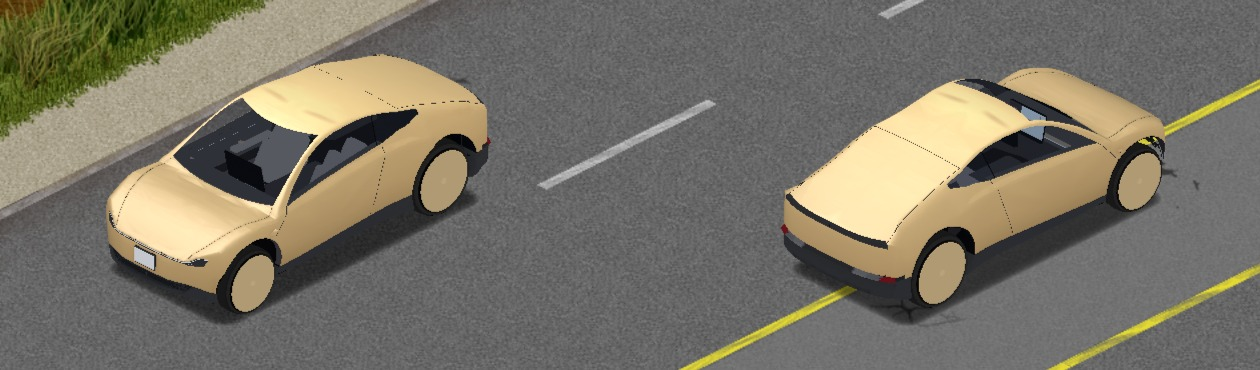
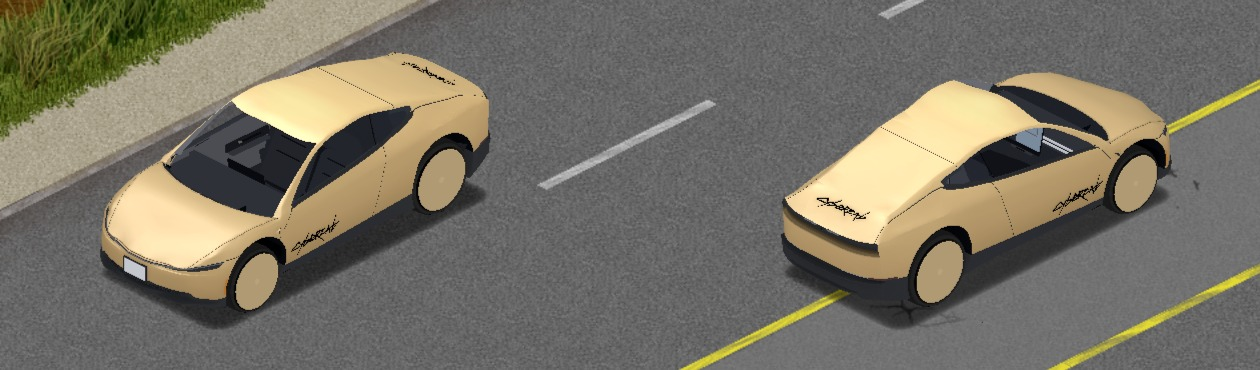
docs: Cybercab 指南截圖用字樣版重拍，新增第 40 張「坐進兩個人」
- 37、38、39：用 a411c16（加了 CYBERCAB 字樣）的 guide-cc-sp 原圖重產，
  拍法與裁切不變（guide-cc-sp/make_jpg.py）。
- 40（新）：多人、兩個帳號坐同一台、兩扇門全開。左格車頭朝 SW 從側面看，
  右格車頭朝 SE 從正面看，版面同 38。來源是一次性情境 seated2-rv-mp
  （拍法寫在 STEAM_GUIDE.md 第 5 行的註解）。多人模式一定會在車頂上方
  畫座位號與帳號名，用旁邊的路面蓋掉；車和人物沒有修。
- 指南（中、英）：Cybercab 一節把「車內」從上掀門小節搬到新的
  「Cybercab 的兩個座位」小節，放第 40 張，並補一條兩個人一起坐的說明。

diff --git a/STEAM_GUIDE_EN.md b/STEAM_GUIDE_EN.md
@@ -2,7 +2,7 @@
 <!-- Steam guide source (English). The full description lives in this guide; the Workshop page only has a summary. Format and sync: pz-family-docs/release.md "完整說明：Steam 指南" -->
 <!-- 標題：📖 Minidoracat Tesla Collection Mod Guide: Cars, Charging, Keys and the App -->
 <!-- 摘要：A picture guide to Minidoracat Tesla Collection: the Model Y and Model 3 Performance, the Model Y L (six seats), the Model S and Model X Plaid (falcon wing doors and six seats), the first-generation Roadster 2.5 Sport (soft top), the Cybertruck Cyberbeast (cargo bed, Powershare home backup and the bed outlets), the Cybercab (a two-seat robotaxi: doors that swing up, no steering wheel, the charge port at the back), the battery and towing, the Wall Connector, the Mobile Connector and the V4 Superchargers at gas stations, the Tesla-style dashboard, key cards and phone keys, the Tesla app and Summon, Sentry and Camp Mode, Bioweapon Defense Mode and Chill, drive unit parts, and how it works with Vehicle Manager, the MiniMap, AutoDrive and Project Viewpoint, plus the sandbox options. -->
-<!-- Screenshots: docs/screenshots/steam/en/, shot by guide-shots-sp in the family repo's e2e/MinidoracatTeslaFor42 (Bioweapon Defense and Chill only: --define part=feat, with hover.py for the radial's hover text; Cybertruck shots: guide-ct-sp; Model S / X: guide-sx-sp; Model Y L shots (33, 34): guide-yl-sp; Roadster shots (35, 36): guide-rd-sp (one CH run, same pictures as zh; 35 is four cars facing S at zoom 1.0 cropped (210,622,1710,967), 36 is one Radiant Red car with the soft top closed and stowed at zoom 0.5, each cropped (284,320,854,880), side by side with a 16 px gap); Cybercab shots (37, 38, 39): guide-cc-sp (one CH run, same pictures as zh; 37 is gcc-line-075, the left car facing S and the right one facing N at zoom 0.75 cropped (330,340,1590,710); 38 is one car facing S at zoom 0.5, gcc-doors-open-050 (both doors open by the app's Doors button) beside gcc-doors-trunk-050 (doors shut, trunk lid open), each cropped (220,260,935,820), side by side with a 16 px gap; 39 is gcc-charge-050, the car facing W with its tail plugged into a V4 Supercharger at zoom 0.5 cropped (150,320,1110,800)); Summon shots: phone-summon-sp; FSD: fsd-shot-sp (01c is 01b cropped (350,370,1090,977), not used in the guide, referenced by the Workshop description: re-crop it when 01b is reshot and update the image URL in the description, see release.md); With other mods: guide-mods-sp; Project Viewpoint (31): vd-first-ModelS from this repo's one-off temp/oneoff/vp-detail-sp, cropped (80,40,1660,1080), same picture as zh, needs ZombieBuddy; V4 Supercharger (32): supercharger-sp's sc-EN-card / sc-CH-card, cropped (480,160,1480,990)) -->
+<!-- Screenshots: docs/screenshots/steam/en/, shot by guide-shots-sp in the family repo's e2e/MinidoracatTeslaFor42 (Bioweapon Defense and Chill only: --define part=feat, with hover.py for the radial's hover text; Cybertruck shots: guide-ct-sp; Model S / X: guide-sx-sp; Model Y L shots (33, 34): guide-yl-sp; Roadster shots (35, 36): guide-rd-sp (one CH run, same pictures as zh; 35 is four cars facing S at zoom 1.0 cropped (210,622,1710,967), 36 is one Radiant Red car with the soft top closed and stowed at zoom 0.5, each cropped (284,320,854,880), side by side with a 16 px gap); Cybercab shots (37, 38, 39): guide-cc-sp (one CH run, same pictures as zh; 37 is gcc-line-075, the left car facing S and the right one facing N at zoom 0.75 cropped (330,340,1590,710); 38 is one car facing S at zoom 0.5, gcc-doors-open-050 (both doors open by the app's Doors button) beside gcc-doors-trunk-050 (doors shut, trunk lid open), each cropped (220,260,935,820), side by side with a 16 px gap; 39 is gcc-charge-050, the car facing W with its tail plugged into a V4 Supercharger at zoom 0.5 cropped (150,320,1110,800)); Cybercab with two riders (40): this repo's one-off temp/plan-next8-1114/e2e/oneoff/seated2-rv-mp (multiplayer, two accounts in one car, both doors open, zoomed all the way in), seated2-open-SW cropped (598,280,1313,840) beside seated2-open-SE cropped (651,350,1366,910) with a 16 px gap, same picture as zh; multiplayer always draws the seat number and account name above the roof, so that label is covered with the road next to it, the car and the riders are not retouched; Summon shots: phone-summon-sp; FSD: fsd-shot-sp (01c is 01b cropped (350,370,1090,977), not used in the guide, referenced by the Workshop description: re-crop it when 01b is reshot and update the image URL in the description, see release.md); With other mods: guide-mods-sp; Project Viewpoint (31): vd-first-ModelS from this repo's one-off temp/oneoff/vp-detail-sp, cropped (80,40,1660,1080), same picture as zh, needs ZombieBuddy; V4 Supercharger (32): supercharger-sp's sc-EN-card / sc-CH-card, cropped (480,160,1480,990)) -->
 === 🚀 Quick start
 [b]中文版：[/b] [url=https://steamcommunity.com/sharedfiles/filedetails/?id=3829449828]Minidoracat Tesla Collection 完整說明[/url]
 
@@ -161,7 +161,7 @@ https://steamcommunity.com/sharedfiles/filedetails/?id=3829501237
 [tr][th]Car[/th][th]Factory paints[/th][th]Front Trunk[/th][th]Rear Trunk[/th][/tr]
 [tr][td]Cybercab[/td][td]Gold[/td][td]None[/td][td]45[/td][/tr]
 [/table]
-[h3]Up-swinging doors, no front trunk, and the cabin[/h3]
+[h3]Up-swinging doors and no front trunk[/h3]
 {{img:38-cybercab-doors-en.jpg}}
 [list]
 [*] [b]Doors that swing up[/b]: the two doors swing up and forward; fully open, the car still fits in a one-storey garage. Your character waits for the door to swing up before climbing in.
@@ -170,7 +170,12 @@ https://steamcommunity.com/sharedfiles/filedetails/?id=3829501237
 [*] [b]Dashboard[/b]: it has its own top view; click the car to open or close the two doors and the trunk lid. Clicking the hood does nothing.
 [*] [b]No front trunk[/b]: the real car's hood does not open (rider guide); the app's home page has three quick icons, and its Controls page has no frunk.
 [*] [b]Repairs[/b]: press E at the front and the hood and the mechanics window open as on any car, so the drive unit is repaired as usual; the mechanics window calls the parts Hood and Trunk Lid. Taking the hood off does not leave a hole (the front is one piece with the body).
+[/list]
+[h3]Cybercab two seats[/h3]
+{{img:40-cybercab-seats-en.jpg}}
+[list]
 [*] [b]Cabin[/b]: two seats and a wide centre screen; riders rest their hands on their laps.
+[*] [b]Two riders[/b]: in multiplayer one player sits on each side and the one on the left drives; from outside you can see the riders through the glass or the open doors.
 [/list]
 === 🧰 Cybertruck (Cyberbeast)
 {{img:23-cybertruck-en.jpg}}

diff --git a/STEAM_GUIDE.md b/STEAM_GUIDE.md
@@ -2,7 +2,7 @@
 <!-- Steam 指南稿源（繁中）：MOD 的完整說明以本指南為準，簡介只放摘要。格式、版面與同步方式見 pz-family-docs/release.md「完整說明：Steam 指南」 -->
 <!-- 標題：📖 Minidoracat Tesla Collection MOD 完整說明：車、充電、鑰匙與 App -->
 <!-- 摘要：Minidoracat Tesla Collection 的圖文說明：Model Y 與 Model 3 Performance、Model Y L（六座）、Model S 與 Model X Plaid（鷹翼門與 6 座）、初代 Roadster 2.5 Sport（敞篷軟頂篷）、Cybertruck Cyberbeast（車斗、Powershare 住宅備援與車斗插座）、Cybercab（兩座無人計程車：上掀門、沒有方向盤、充電口在車尾）、電池與拖車耗電、壁掛式充電座、行動充電器與加油站的 V4 超級充電座、特斯拉風格儀表、卡片鑰匙與手機鑰匙、手機 Tesla App 與召喚、哨兵與露營模式、生物武器防禦模式與舒適模式、驅動單元零件，以及和 Vehicle Manager、小地圖、AutoDrive、Project Viewpoint 一起用的規則與沙盒選項。 -->
-<!-- 截圖：docs/screenshots/steam/zh/，拍法見家族庫 e2e/MinidoracatTeslaFor42 的 guide-shots-sp（生物武器防禦與舒適模式只跑那段用 --define part=feat，圓盤停留文字要另開 hover.py；Cybertruck 圖用 guide-ct-sp、Model S／X 圖用 guide-sx-sp、Model Y L 的圖（33、34）用 guide-yl-sp、Roadster 的圖（35、36）用 guide-rd-sp（只跑 CH 一輪、中英同一張；35 是四台車頭朝 S、縮放 1.0 裁 (210,622,1710,967)，36 是同一台 Radiant Red 軟頂篷蓋著與收起、縮放 0.5 各裁 (284,320,854,880) 左右拼、間隔 16）、Cybercab 的圖（37、38、39）用 guide-cc-sp（只跑 CH 一輪、中英同一張；37 是 gcc-line-075，左台朝 S、右台朝 N、縮放 0.75 裁 (330,340,1590,710)；38 是同一台朝 S、縮放 0.5，左 gcc-doors-open-050（App 車門鍵兩門全開）、右 gcc-doors-trunk-050（門關、行李廂蓋全開），各裁 (220,260,935,820) 左右拼、間隔 16；39 是 gcc-charge-050，車頭朝 W、車尾對 V4 超級充電座插著線、縮放 0.5 裁 (150,320,1110,800)）、召喚圖用 phone-summon-sp、FSD 圖用 fsd-shot-sp（01c 是 01b 裁 (350,370,1090,977)，指南不用，給 Workshop 簡介引用：重拍 01b 要一起重裁，並照 release.md 換簡介裡的圖片網址）、「和其他 MOD 一起用」用 guide-mods-sp；Project Viewpoint 那張（31）是本 repo 一次性情境 temp/oneoff/vp-detail-sp 的 vd-first-ModelS 裁 (80,40,1660,1080)，中英同一張，要裝 ZombieBuddy 才拍得到；V4 超級充電座那張（32）是 supercharger-sp 的 sc-CH-card／sc-EN-card 裁 (480,160,1480,990)） -->
+<!-- 截圖：docs/screenshots/steam/zh/，拍法見家族庫 e2e/MinidoracatTeslaFor42 的 guide-shots-sp（生物武器防禦與舒適模式只跑那段用 --define part=feat，圓盤停留文字要另開 hover.py；Cybertruck 圖用 guide-ct-sp、Model S／X 圖用 guide-sx-sp、Model Y L 的圖（33、34）用 guide-yl-sp、Roadster 的圖（35、36）用 guide-rd-sp（只跑 CH 一輪、中英同一張；35 是四台車頭朝 S、縮放 1.0 裁 (210,622,1710,967)，36 是同一台 Radiant Red 軟頂篷蓋著與收起、縮放 0.5 各裁 (284,320,854,880) 左右拼、間隔 16）、Cybercab 的圖（37、38、39）用 guide-cc-sp（只跑 CH 一輪、中英同一張；37 是 gcc-line-075，左台朝 S、右台朝 N、縮放 0.75 裁 (330,340,1590,710)；38 是同一台朝 S、縮放 0.5，左 gcc-doors-open-050（App 車門鍵兩門全開）、右 gcc-doors-trunk-050（門關、行李廂蓋全開），各裁 (220,260,935,820) 左右拼、間隔 16；39 是 gcc-charge-050，車頭朝 W、車尾對 V4 超級充電座插著線、縮放 0.5 裁 (150,320,1110,800)）、Cybercab 坐進兩個人那張（40）是本 repo 一次性情境 temp/plan-next8-1114/e2e/oneoff/seated2-rv-mp（多人、兩個帳號坐同一台、兩扇門全開、縮放拉到最近）的 seated2-open-SW 裁 (598,280,1313,840) 與 seated2-open-SE 裁 (651,350,1366,910)，左右拼、間隔 16，中英同一張；多人模式一定會在車頂上方畫座位號與帳號名，用旁邊的路面蓋掉，車和人物不修、召喚圖用 phone-summon-sp、FSD 圖用 fsd-shot-sp（01c 是 01b 裁 (350,370,1090,977)，指南不用，給 Workshop 簡介引用：重拍 01b 要一起重裁，並照 release.md 換簡介裡的圖片網址）、「和其他 MOD 一起用」用 guide-mods-sp；Project Viewpoint 那張（31）是本 repo 一次性情境 temp/oneoff/vp-detail-sp 的 vd-first-ModelS 裁 (80,40,1660,1080)，中英同一張，要裝 ZombieBuddy 才拍得到；V4 超級充電座那張（32）是 supercharger-sp 的 sc-CH-card／sc-EN-card 裁 (480,160,1480,990)） -->
 === 🚀 快速上手
 [b]English version:[/b] [url=https://steamcommunity.com/sharedfiles/filedetails/?id=3829449879]Minidoracat Tesla Collection Mod Guide[/url]
 
@@ -161,7 +161,7 @@ https://steamcommunity.com/sharedfiles/filedetails/?id=3829501237
 [tr][th]車型[/th][th]原廠車色[/th][th]前行李廂[/th][th]後行李廂[/th][/tr]
 [tr][td]Cybercab[/td][td]Gold（金色）[/td][td]沒有[/td][td]45[/td][/tr]
 [/table]
-[h3]上掀門、沒有前車廂與車內[/h3]
+[h3]上掀門與沒有前車廂[/h3]
 {{img:38-cybercab-doors-zh.jpg}}
 [list]
 [*] [b]上掀門[/b]：兩扇車門往上、往前掀開，全開時一樣進得了單層車庫；上車時角色會等車門掀起來再坐進去。
@@ -170,7 +170,12 @@ https://steamcommunity.com/sharedfiles/filedetails/?id=3829501237
 [*] [b]儀表[/b]：有自己的俯視圖，點車子圖開關兩扇車門與行李廂蓋；前蓋那一塊點了不會開。
 [*] [b]沒有前車廂[/b]：實車的前蓋打不開（乘客手冊）；App 首頁只有三個快捷圖示，控制頁也沒有前行李廂。
 [*] [b]修車[/b]：在車頭按 E 一樣會打開引擎蓋和維修介面，修驅動單元照常；維修介面的零件叫「引擎蓋」「行李廂蓋」。拆下引擎蓋時車頭不會開洞（前蓋和車身是一體的）。
+[/list]
+[h3]Cybercab 的兩個座位[/h3]
+{{img:40-cybercab-seats-zh.jpg}}
+[list]
 [*] [b]車內[/b]：兩個座位，中央一塊橫置的大螢幕；坐在車上的人手放在腿上。
+[*] [b]兩個人一起坐[/b]：多人遊戲可以一人坐一邊，左邊的人開車；隔著玻璃或開著的車門，從車外看得到坐著的人。
 [/list]
 === 🧰 Cybertruck（Cyberbeast）
 {{img:23-cybertruck-zh.jpg}}
